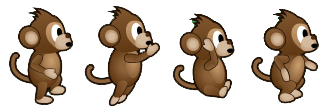
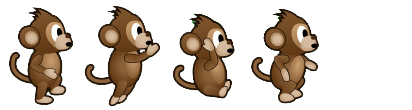
win sprite graphics added

diff --git a/js/main.js b/js/main.js
@@ -3,7 +3,7 @@ var timer = 60
 var cursors
 var right = true
 var counter=0
-var swipeLeft=false,swipeRight=false, gameWin=false
+var swipeLeft=false,swipeRight=false, isGameRunning=true
 var timerText=null
 var swipeCoordX, swipeCoordY, swipeCoordX2, swipeCoordY2, swipeMinDistance = 100
 
@@ -11,7 +11,7 @@ var mainState = {
     preload: function() { 
          this.game.load.image('tree', 'assets/tree.png')
          this.game.stage.backgroundColor = "#ffffff"
-         this.game.load.spritesheet('monkey','assets/jump.png',82,108)
+         this.game.load.spritesheet('monkey','assets/jumpy.png',82,108)
          this.game.load.image('sky','assets/sky.png')
          this.game.load.image('platform','assets/platform.png')
          this.game.load.image('sky','assets/sky.png')
@@ -27,7 +27,7 @@ var mainState = {
          this.game.scale.refresh()
 
          //initialization of global variables
-         gameWin = false
+         isGameRunning = true
          right = true
          timer = 60
         
@@ -47,21 +47,21 @@ var mainState = {
         game.physics.arcade.enable(this.ground)
         
         //timer ticks interval 1s per tick
-        interval=setInterval(function(){timer-=1},1000)
+        interval=setInterval(function(){timer -= 1},1000)
 
         
         //create animations
-        this.monkey.animations.add('game',[3,0,1,2], 5, true)
+        this.monkey.animations.add('game',[3, 0, 1, 2], 5, true)
         
         //start animation
         this.monkey.animations.play('game')
         
         
          //scales and anchors
-        this.monkey.anchor.setTo(.5,.5)
-        this.monkey.scale.setTo(.8,.8)
-        this.sky.scale.setTo(2,2)
-        this.ground.scale.setTo(1.8,0.8)
+        this.monkey.anchor.setTo(.5, .5)
+        this.monkey.scale.setTo(.8, .8)
+        this.sky.scale.setTo(2, 2)
+        this.ground.scale.setTo(1.8, 0.8)
         
         
         this.monkey.body.gravity.y = 300
@@ -101,8 +101,8 @@ var mainState = {
      },
      update: function() {
 
-        //detect monkey and ground collision
-        if(!gameWin){
+        if(isGameRunning){
+            //detect monkey and ground collision
             game.physics.arcade.collide(this.monkey, this.ground)
             if(timerText!=null)timerText.destroy()
                   timerText = game.add.text(
@@ -125,7 +125,7 @@ var mainState = {
             //if (cursors.up.isDown && this.monkey.body.touching.down){
             this.monkey.body.velocity.x=0
             if (swipeLeft || swipeRight || cursors.up.isDown ){
-                console.log("up")
+                //console.log("up")
                 this.monkey.body.velocity.y = -350
                 this.monkey.frame = 1
             }
@@ -142,7 +142,7 @@ var mainState = {
                 this.monkey.body.velocity.x = 350
                 if(!right) {
                     right =  true
-                    this.monkey.scale.x*=-1
+                    this.monkey.scale.x *= -1
                 }
 
 
@@ -157,9 +157,10 @@ var mainState = {
                 counter=0
                 swipeLeft=swipeRight=false
             }
-            if((350<=this.monkey.body.x && this.monkey.body.x<450) && (50<=this.monkey.body.y && this.monkey.body.y <=130)){
+            if((300<=this.monkey.body.x && this.monkey.body.x<450) && (50<=this.monkey.body.y && this.monkey.body.y <=130)){
                 //console.log("Home Win!")
-                gameWin=true
+                isGameRunning=false
+                this.monkey.frame = 0
                 gameOverText = game.add.text(
                     game.world.width / 2,
                     game.world.height / 2,
